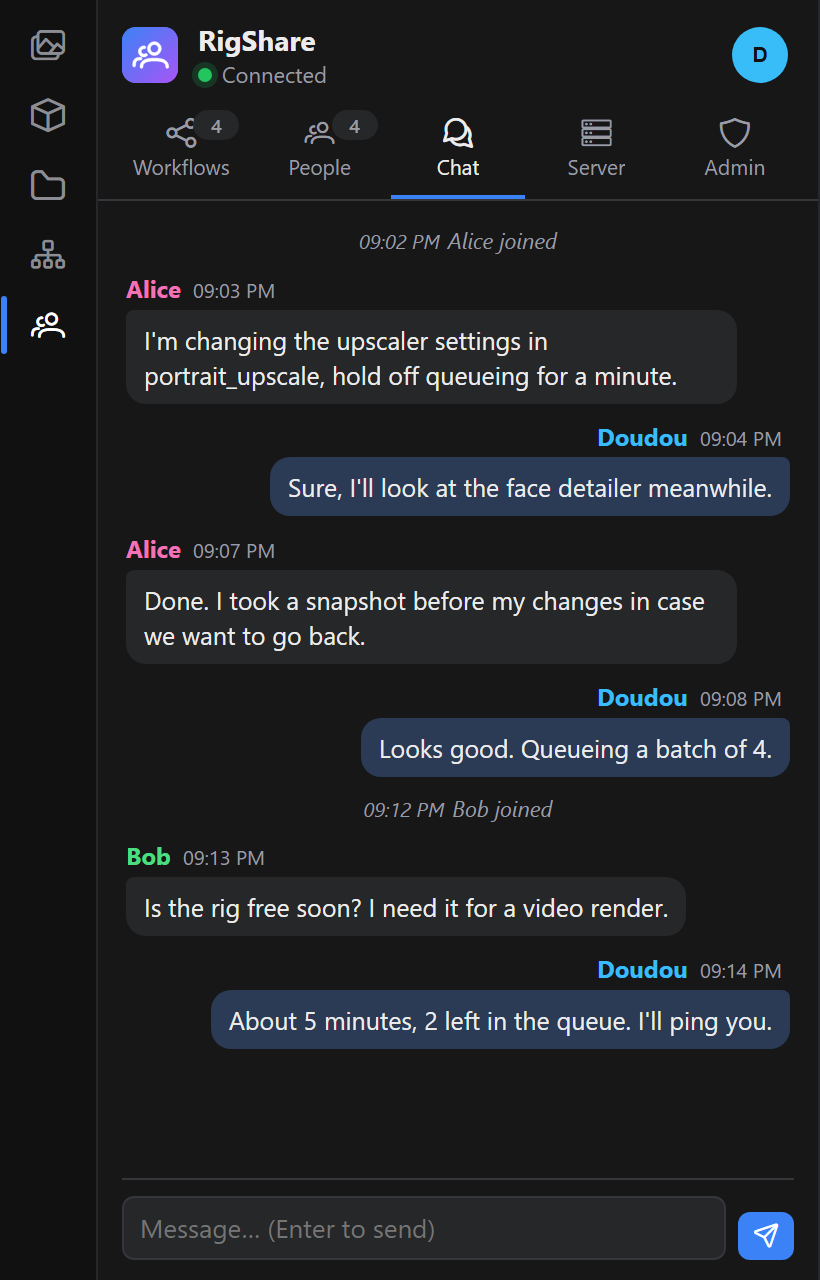
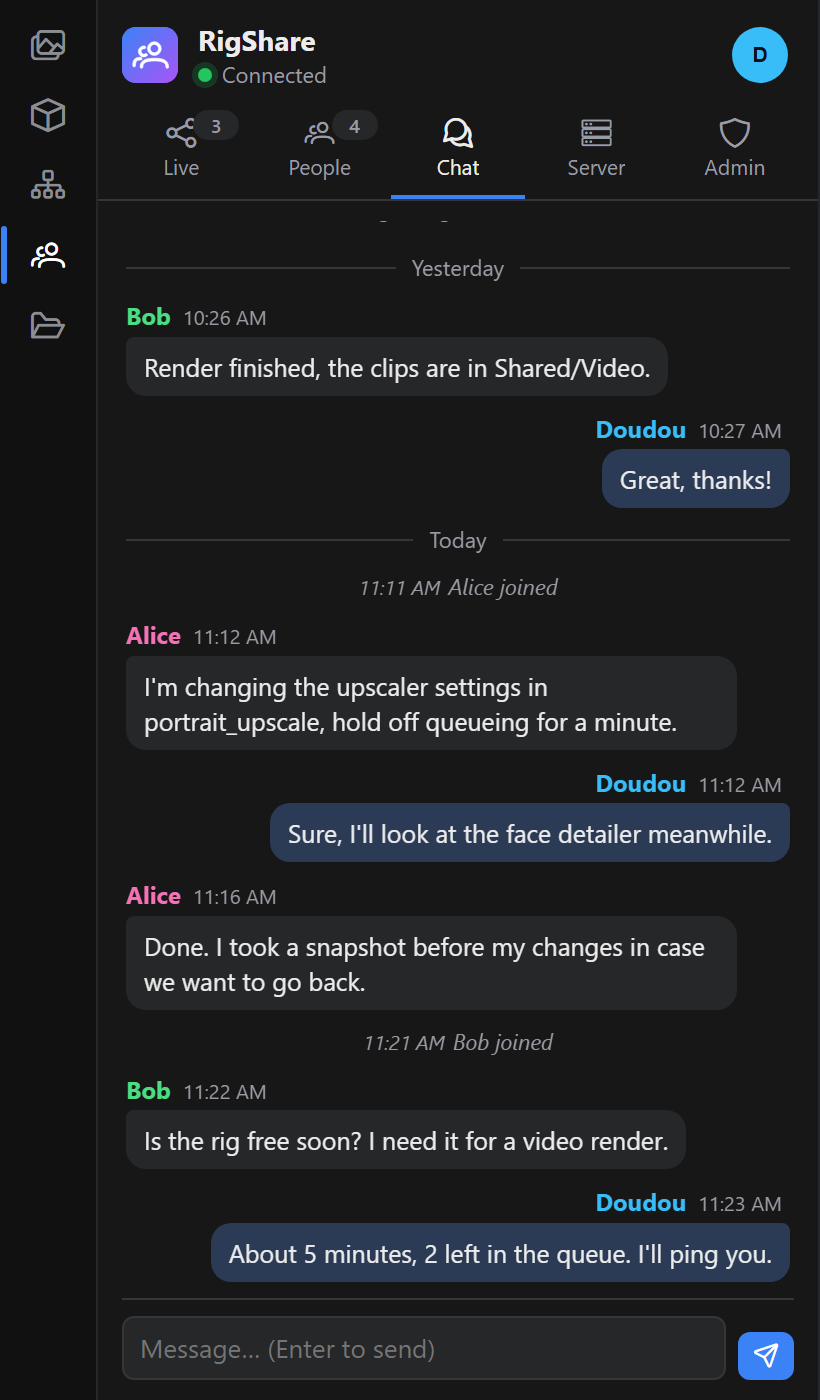
RigShare 1.1.0: README, Files guide, upgrade notes, changelog, screenshots

diff --git a/README.md b/README.md
@@ -4,11 +4,11 @@
 
 # ComfyUI RigShare
 
-> One ComfyUI rig, a whole team: accounts, live co-editing of every workflow, chat and a GPU monitor
+> One ComfyUI rig, a whole team: accounts, shared folders, live co-editing, chat and a GPU monitor
 
 [![GitHub Release](https://img.shields.io/github/v/release/xiaodoudou/ComfyUI-RigShare?style=flat-square&color=e94560)](https://github.com/xiaodoudou/ComfyUI-RigShare/releases/latest) [![Stars](https://img.shields.io/github/stars/xiaodoudou/ComfyUI-RigShare?style=flat-square&color=yellow)](https://github.com/xiaodoudou/ComfyUI-RigShare/stargazers) [![License](https://img.shields.io/badge/License-MIT-blue?style=flat-square)](LICENSE) [![ComfyUI](https://img.shields.io/badge/ComfyUI%20frontend-1.53%2B-7c3aed?style=flat-square)](docs/install.md) [![Python](https://img.shields.io/badge/Python-3.10%2B-3776ab?style=flat-square)](docs/install.md) [![Dependencies](https://img.shields.io/badge/Dependencies-none-brightgreen?style=flat-square)](docs/install.md) [![Auth](https://img.shields.io/badge/Auth-JWT%20%7C%20API%20keys-orange?style=flat-square)](docs/security.md)
 
-A custom node that turns a single ComfyUI server into a shared workspace. Everyone signs in, opens any workflow, and edits it together in real time while seeing each other's cursors. Fork of
+A custom node that turns a single ComfyUI server into a shared workspace. Everyone signs in, keeps their own workflows in a private folder, and edits the shared ones together in real time while seeing each other's cursors. Fork of
 [daxcay/ComfyUI-Nexus](https://github.com/daxcay/ComfyUI-Nexus), rewritten for the current ComfyUI frontend.
 
 </div>
@@ -18,14 +18,16 @@ A custom node that turns a single ComfyUI server into a shared workspace. Everyo
 ## What it does
 
 - asks everyone to sign in before ComfyUI loads, and creates the admin account on first run
-- shares every workflow: people who open the same saved file edit it together, and unsaved tabs join as soon as you edit them
-- lets you switch tabs freely, because only the tab on screen syncs
+- organises workflows like a shared drive: a private **My files** folder per account, **Shared** folders, and an **All** view for admins, in a Files tab of its own
+- asks where to save, with the same folders, and opens workflows from them (Ctrl+Alt+O)
+- makes every workflow outside a private folder live while it is open: people who open the same file edit it together, with nothing to share by hand
+- lets folder owners restrict a shared folder to chosen people, each able to view or edit
+- lets you switch tabs freely, because only the tab on screen syncs, and keeps open tabs pointed at a workflow when someone renames or moves it
 - shows who is online and which workflow they are on, plus live cursors and selections
 - lets you follow someone, jumping to their tab and view
-- keeps a chat with an unread badge, a blinking icon and a sound
+- keeps the whole chat history, loading older messages as you scroll up, with an unread badge, a blinking icon and a sound
 - keeps per-workflow history: snapshots every few minutes, named snapshots, one-click restore
 - gives each account permissions to edit, queue, use ComfyUI Manager or administer, enforced by the server and not just hidden in the UI
-- lets you restrict a workflow to chosen people, each able to view or edit
 - keeps simultaneous edits apart: two people adding or connecting nodes at the same moment both keep their work
 - issues personal API keys, so scripts and other apps can call ComfyUI with their owner's permissions
 - shows CPU, RAM, and for each GPU the load, VRAM, temperature and power, plus the queue, in a panel tab or a floating widget
@@ -36,27 +38,31 @@ What this fork adds over Nexus:
 - **Built for the new frontend.** It lives in a sidebar tab and works with workflow tabs and subgraphs. It needs no legacy menu and no litegraph patching.
 - **Real accounts.** A login page, hashed passwords, JWT sessions and API keys replace the shared `/login account password` chat command and the plaintext `admins.json`.
 - **The server is in charge.** It checks permissions and identity on every message, so a browser cannot impersonate someone or edit without the right to.
-- **Every workflow is shared**, not a single canvas that everybody fights over.
+- **Folders, not one canvas.** Everyone has their own space, shared work lives in shared folders, and nobody fights over a single canvas.
 
 ## Screenshots
 
 <table>
   <tr>
-    <td align="center"><img src="docs/images/history.png" width="260" alt="Workflows tab: this tab, history and shared workflows"><br><sub>Shared workflows and history</sub></td>
+    <td align="center"><img src="docs/images/history.png" width="260" alt="Live tab: the workflow on screen, its history and the live workflows"><br><sub>Live workflows and history</sub></td>
+    <td align="center"><img src="docs/images/files.png" width="260" alt="Files tab: My files, Shared and All"><br><sub>Files: My files, Shared, All</sub></td>
+    <td align="center"><img src="docs/images/files-shared.png" width="260" alt="Shared folders in the Files tab"><br><sub>Shared folders, live files marked</sub></td>
+  </tr>
+  <tr>
     <td align="center"><img src="docs/images/people.png" width="260" alt="People tab"><br><sub>Who is online, and on which workflow</sub></td>
-    <td align="center"><img src="docs/images/chat.png" width="260" alt="Chat tab"><br><sub>Chat</sub></td>
+    <td align="center"><img src="docs/images/chat.png" width="260" alt="Chat tab"><br><sub>Chat, with the whole history</sub></td>
+    <td align="center"><img src="docs/images/access.png" width="260" alt="Access list of a shared folder"><br><sub>Who can open a folder</sub></td>
   </tr>
   <tr>
     <td align="center"><img src="docs/images/server.png" width="260" alt="Server tab"><br><sub>Server monitor</sub></td>
     <td align="center"><img src="docs/images/account.png" width="260" alt="Account and API keys"><br><sub>Account and API keys</sub></td>
     <td align="center"><img src="docs/images/admin.png" width="260" alt="Admin tab"><br><sub>Accounts and server settings</sub></td>
   </tr>
-  <tr>
-    <td align="center"><img src="docs/images/access.png" width="260" alt="Access list of a shared folder"><br><sub>Who can open a folder</sub></td>
-    <td></td>
-    <td></td>
-  </tr>
 </table>
+
+<p align="center">
+  <img src="docs/images/save.png" width="820" alt="Save dialog: name and location"><br><sub>Save asks where</sub>
+</p>
 
 <p align="center">
   <img src="docs/images/floating.png" width="820" alt="Floating server monitor over the canvas"><br><sub>Floating server monitor</sub>
@@ -77,6 +83,8 @@ git clone https://github.com/xiaodoudou/ComfyUI-RigShare.git
 
 Open ComfyUI in a browser. There are no accounts yet, so the login page asks you to create the administrator. Sign in, open the **RigShare** tab in the sidebar and add your team under **Admin → Accounts**. That is the whole setup.
 
+Each person gets a private **My files** folder. Put what you work on together in **Shared**, in the **Files** tab: it goes live for everyone who opens it.
+
 Everyone then signs in at the same address. To use the API from a script, create a key under your avatar → **API keys**:
 
 ```bash
@@ -89,7 +97,8 @@ Behind a reverse proxy, turn on WebSocket support, or nothing will be live. See 
 
 | | |
 |---|---|
-| [Installing](docs/install.md) | Custom node, Docker/compose, first-run setup, upgrading from Nexus |
+| [Installing](docs/install.md) | Custom node, Docker/compose, first-run setup, upgrading from 1.0 or Nexus |
+| [Files and folders](docs/files.md) | My files, Shared, All, saving, opening, who can do what |
 | [Sharing workflows](docs/sharing.md) | Live workflows by folder, folder access, snapshots, follow |
 | [Accounts and permissions](docs/accounts.md) | Edit, Queue, Admin, renaming, what viewers can do |
 | [API access](docs/api.md) | API keys, websockets, trusted IPs, other apps such as Open WebUI |
@@ -111,10 +120,11 @@ I run one ComfyUI box for several people. [ComfyUI-Nexus](https://github.com/dax
 
 - [x] Login page, JWT sessions, first-run admin setup
 - [x] Per-user API keys
-- [x] Every workflow shared, per-workflow snapshots
+- [x] Live co-editing of every shared workflow, per-workflow snapshots
 - [x] Cursors, selections, follow mode
-- [x] Chat with badge, blink and sound
+- [x] Chat with badge, blink and sound, whole history with scroll back
 - [x] Server monitor with floating widget
 - [x] Conflict-free node ids when two people add nodes at the same instant
+- [x] Private folder per account, shared folders, Save asks where
 - [x] Folder access lists (share with specific people)
-- [ ] Publish to the Comfy registry
+- [x] Publish to the Comfy registry

diff --git a/CHANGELOG.md b/CHANGELOG.md
@@ -1,28 +1,38 @@
 # Changelog
 
-## Unreleased
+## 1.1.0 (2026-09-26)
+
+Workflows now live in folders, like a shared drive, and sharing follows them.
+
+### Added
+
+- **Workspace folders**: a private **My files** folder per account (`users/<name>/`), **Shared** folders owned by whoever creates them, and common workflows at the top level. The server enforces them on ComfyUI's own file API, and ComfyUI's workflow browser lists only what you can open
+- **Files** sidebar tab with **My files**, **Shared** and, for admins, **All** (the whole workflows folder); new folders, rename, move and delete; a green dot on live files; **From computer**
+- **Save asks where**: a name plus the same folder tabs, starting in My files or the last folder used
+- **Open from RigShare…** in the Workflow menu (Ctrl+Alt+O)
+- Folder access lists: a shared folder's owner or an admin can restrict it to chosen people, each with view or edit. For a live workflow in a folder you own, *This tab* shows **Folder access**
+- Only admins delete common workflows; a shared folder's owner deletes in that folder; you delete in yours
+- Whole chat history: stored in `chat.jsonl` with no limit (`chat_keep` trims it). The panel shows the latest 50 messages and loads older ones as you scroll up, with date dividers. The old `chat.json` is imported once
+- Test suite: pytest unit and end-to-end tests against a real aiohttp server, Node tests for the client, and a GitHub Actions workflow
 
 ### Changed
 
-- Sharing follows folders: every saved workflow outside a private folder is live while it is open, with nothing to share by hand. Unsaved tabs and files in *My files* stay private
-- The **Live** list shows the workflows someone has open right now, with their folder and who is in them; the Files tab marks live files
-- A private workflow's panel offers **Move to Shared…** to take it live
-- Deleting a live file closes it for the people who have it open (a snapshot is kept); moving one into a private folder takes it out of live sharing
-- Renaming or moving a file or folder re-points everyone's open tabs to the new path, so nobody recreates it under the old name. People who can't open the new location are told nothing about it and keep a private copy
-
-- The Files tab has **My files**, **Shared** and, for admins, **All** tabs instead of a Home screen; the same tabs appear in the Open, Save and Move dialogs
-- Who can open a workflow now follows its folder only. For a live workflow in a folder you own, *This tab* shows **Folder access**
-
-- Chat keeps its whole history (`chat.jsonl`, `chat_keep` to trim) instead of the last 200 messages. The panel shows the latest 50 and loads older ones as you scroll up, with date dividers. The old `chat.json` is imported once
+- Sharing follows folders: every saved workflow outside a private folder is live while it is open, with nothing to share by hand. Unsaved tabs and files in My files stay private
+- The **Live** tab lists the workflows someone has open right now, with their folder and who is in them. A private workflow's panel offers **Move to Shared…**
+- Renaming or moving a workflow or folder keeps everyone's open tabs on it, under the new name. People who can't open the new location learn nothing about it and keep a private copy
+- Deleting a live workflow closes it for the people who have it open, keeping a snapshot; moving one into a private folder takes it out of live sharing
+- Who can open a workflow follows its folder only
 
 ### Fixed
 
+- Opening a file could overwrite the shared workflow of the previous tab
 - Switching straight between the RigShare and Files sidebar tabs could leave the previous tab's content on screen
 
 ### Removed
 
-- Per-workflow access lists (restrict the folder instead). Lists set on individual workflows before are dropped
+- Per-workflow access lists (restrict the folder instead). Lists set on individual workflows are dropped
 - *Share this tab*, *Stop sharing*, the automatic-sharing settings and the admin 🗑 for idle rooms
+- Live rooms for unsaved tabs (`tmp:`): save the workflow outside My files to work on it together
 
 ## 1.0.0
 

diff --git a/docs/files.md b/docs/files.md
@@ -1,0 +1,56 @@
+# Files and folders
+
+RigShare organises ComfyUI's workflows folder like a shared drive. Where a workflow is saved decides who can open it and whether it is live. See [Sharing workflows](sharing.md) for the live part.
+
+## The folders
+
+| Folder | On disk (`user/default/workflows/`) | Who can open it |
+|---|---|---|
+| **My files** | `users/<you>/` | You, plus admins. Created when you first sign in. |
+| **Shared folders** | `shared/<name>/` | Everyone, or only the people the folder's owner chooses. |
+| **Common workflows** | anything else at the top level | Everyone, with their account permissions. |
+
+- Workflows in My files are never live. Everything else is live while someone has it open.
+- Renaming an account renames its private folder too, and open tabs follow.
+
+## The Files tab
+
+**Files** has its own icon in the sidebar, with three tabs:
+
+- **My files**: your private folder.
+- **Shared**: the shared folders plus the common workflows at the top level.
+- **All** (admins only): the whole workflows folder, including everyone's private folders.
+
+<table>
+  <tr>
+    <td align="center"><img src="images/files.png" width="240" alt="My files"><br><sub>My files</sub></td>
+    <td align="center"><img src="images/files-shared.png" width="240" alt="Shared"><br><sub>Shared</sub></td>
+    <td align="center"><img src="images/files-all.png" width="240" alt="All, for admins"><br><sub>All (admins)</sub></td>
+  </tr>
+</table>
+
+Click a workflow to open it. The Files tab marks live workflows with a green dot. **From computer** opens a workflow file from your machine, like ComfyUI's own *Open*.
+
+Hover a row for its actions: **Rename**, **Move to…**, **Delete**, and on a shared folder you own, 🔒 **Who can open it**. The folder button creates a folder. In the Shared tab it creates a shared folder that you own.
+
+## Saving
+
+<p align="center"><img src="images/save.png" width="720" alt="Save dialog"></p>
+
+**Save** (Ctrl+S) on a new workflow, and **Save As**, open a dialog with a name and the same three tabs. It starts in My files, or in the folder you last saved to. Pick any folder you can edit and click **Save here**. Clicking an existing workflow reuses its name, and ComfyUI asks before overwriting.
+
+## Opening
+
+- **Workflow → Open from RigShare…** (Ctrl+Alt+O) browses the same folders and opens a workflow.
+- ComfyUI's own workflow browser still works. It lists only the workflows you can open.
+
+## Who can do what
+
+| | My files | Shared folder | Common |
+|---|---|---|---|
+| Open | owner, admins | everyone, or the folder's list | everyone |
+| Save, rename | owner, admins | *Edit* permission and not *Can view* on the list | *Edit* permission |
+| Delete, move out | owner, admins | the folder's owner, admins | admins |
+
+- A shared folder's owner is whoever created it. The owner and admins can restrict it to chosen people, each with **Can view** or **Can edit**, and rename or delete it.
+- The server checks every rule on ComfyUI's own file API, not just in the panel, so a script or another browser cannot get around them.

diff --git a/docs/install.md b/docs/install.md
@@ -49,11 +49,20 @@ The data folder is `<ComfyUI base path>/rigshare`; point it elsewhere with `RIGS
 | `sessions.json` | Active logins (session ids, not tokens) |
 | `secret.key` | Key that signs session tokens. Keep it private |
 | `config.json` | Server settings, see [Settings](settings.md) |
-| `rooms/` | Current state of every shared workflow |
+| `folders.json` | Shared folders: owners and access lists |
+| `rooms/` | Latest live state of each workflow |
 | `snapshots/` | Workflow history |
 | `chat.jsonl` | The whole chat history, one message per line |
 
 Back up the folder to keep accounts and history. Deleting `secret.key` signs everyone out.
+
+## Upgrading from RigShare 1.0
+
+Update the folder (`git pull`, or ComfyUI Manager) and restart ComfyUI. Then:
+
+- Workflows already at the top level become *common*: everyone can open them, and they are live while open. Move personal ones into each person's **My files**, and group shared ones in **Shared** folders. Admins can do this for everyone from **Files → All**.
+- Access lists set on individual workflows are dropped. Restrict a shared folder instead.
+- The chat history moves from `chat.json` to `chat.jsonl` on the first start, with nothing lost. From then on, all of it is kept.
 
 ## Upgrading from ComfyUI-Nexus
 
